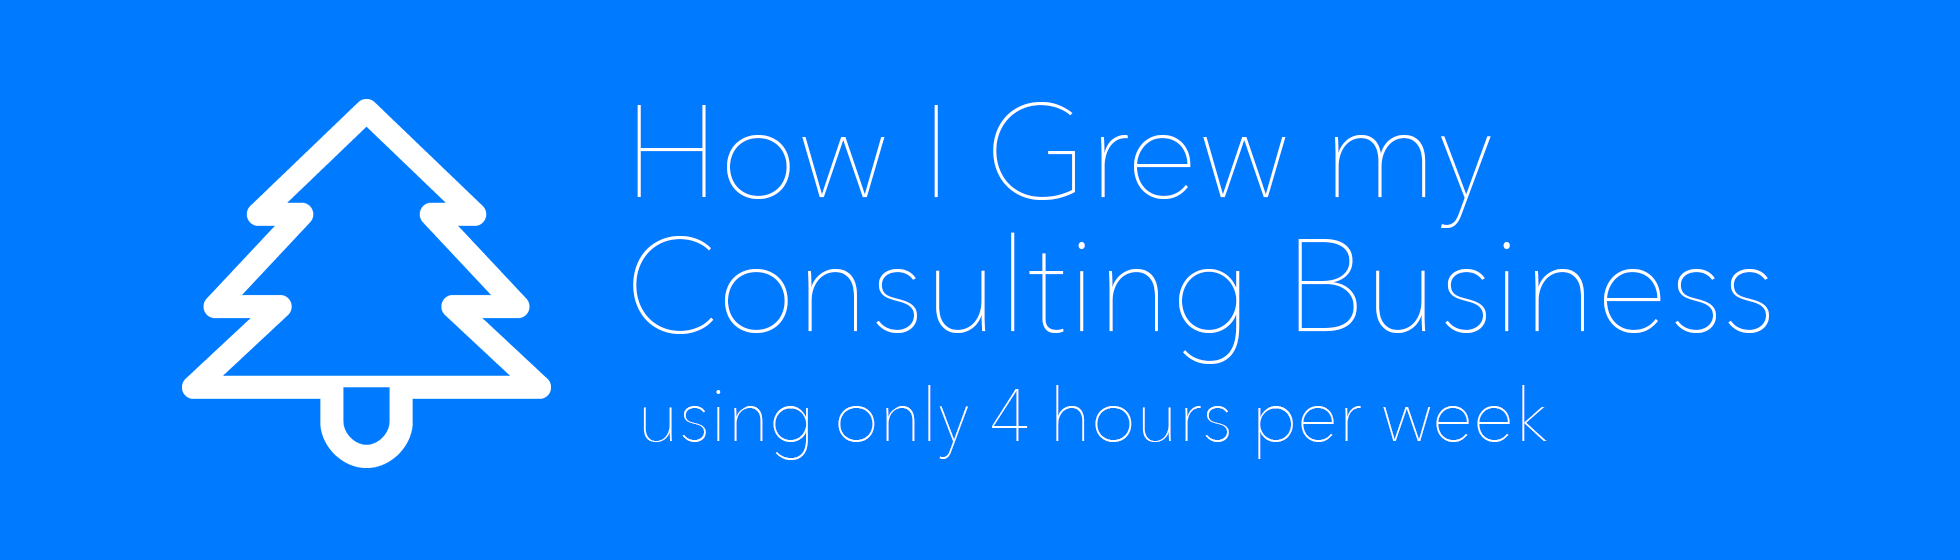
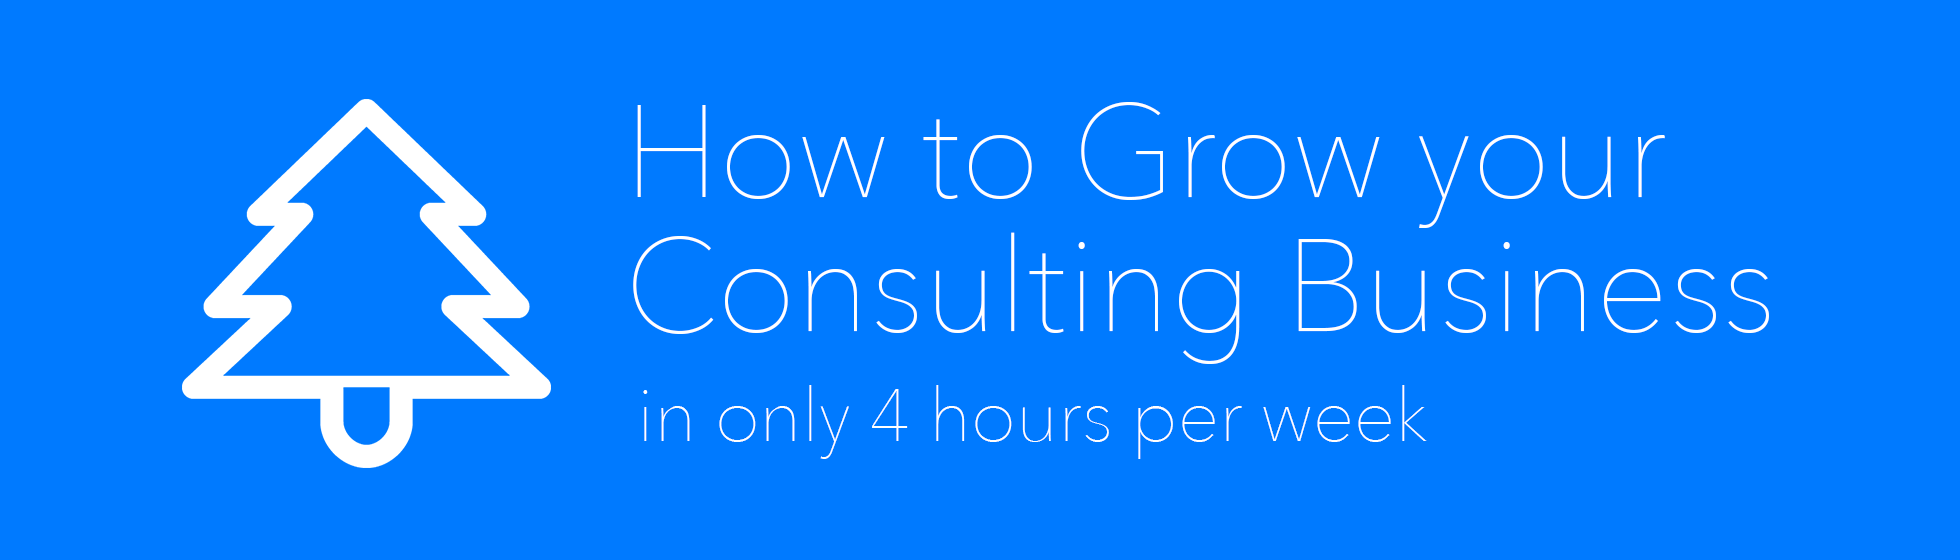
"Automated commit at 2014-01-05 20:49:57 UTC by middleman-deploy 0.1.4"

Changed region(s): [[0.4668, 0.2429, 0.8403, 0.425], [0.3112, 0.6982, 0.7781, 0.8196], [0.498, 0.1821, 0.5913, 0.2125]]

diff --git a/how-i-grew-my-consulting-business-in-only-4-hours-per-week/index.html b/how-i-grew-my-consulting-business-in-only-4-hours-per-week/index.html
@@ -1,5 +1,7 @@
-<!DOCTYPE html><html><head><meta charset="utf-8" /><meta content="IE=edge" http-equiv="X-UA-Compatible" /><title>How I Grew my Consulting Business using only 4 Hours per Week</title><meta content="width=device-width, initial-scale=1" name="viewport" /><meta content="Level up your development and consulting skills | Chris Ball" name="og:site_name" /><meta content="blog" name="og:type" /><meta content="I started echobind as a side business when I had a full time job. While this was a great way to ease-in to consulting, it required me to put in long hours every day. I quickly realized that doing so was not going to be sustainable. I needed to be able..." name="description" /><meta content="http://cball.me/images/grew-consulting-business.png" name="og:image" /><meta content="How I Grew my Consulting Business using only 4 Hours per Week" name="og:title" /><meta content="http://cball.me/how-i-grew-my-consulting-business-using-only-4-hours-per-week/" name="og:url" /><!--[if lt IE 9]><script src="//oss.maxcdn.com/libs/html5shiv/3.7.0/html5shiv.js"></script><script src="//oss.maxcdn.com/libs/respond.js/1.3.0/respond.min.js"></script><![endif]--><link href="//cloud.typography.com/6222872/746702/css/fonts.css" media="all" rel="stylesheet" type="text/css" /><link href="/stylesheets/application.css" media="all" rel="stylesheet" type="text/css" /></head><body class="how-i-grew-my-consulting-business-using-only-4-hours-per-week how-i-grew-my-consulting-business-using-only-4-hours-per-week_index"><header><div class="row"><div class="col-xs-12 col-md-2" id="my-picture"><a href="/"><img class="img-circle" width="100" height="100" src="https://1.gravatar.com/avatar/d3cc1542f7fb242f0e73fd70810c0ac5?r=x&s=100" /><span class="name">Chris Ball</span></a></div><div class="col-md-8 col-md-offset-0 col-sm-10 col-sm-offset-1"><ul class="nav nav-pills nav-justified"><li><a href="/">Home</a></li><li><a href="/about">About</a></li><li><a href="/newsletter">Newsletter</a></li><li><a href="/topics/development/">Development</a></li><li><a href="/topics/consulting/">Consulting</a></li><li><a href="/contact">Contact</a></li></ul></div><div class="col-md-2"></div></div></header><div class="container"><div class="row"><div class="col-md-10 col-md-offset-1" id="main"><article><div class="post-header"><div class="inner"><a href="/how-i-grew-my-consulting-business-using-only-4-hours-per-week/"><img class="img-responsive" src="/images/grew-consulting-business.png" /></a><div class="date"><div class="month">Jan</div><div class="day"> 5</div><div class="year">2014</div></div></div></div><div class="post-body"><h2 class="title"><a href="/how-i-grew-my-consulting-business-using-only-4-hours-per-week/">How I Grew my Consulting Business using only 4 Hours per Week</a></h2><div class="date subtitle">January  5, 2014</div><hr />
-<p>I started <a href="http://echobind.com">echobind</a> as a side business when I had a full time job. While this was a great way to ease-in to consulting, it required me to put in long hours every day. I quickly realized that doing so was not going to be sustainable. I needed to be able to take in a varying amount of work (more than I could do by myself), while still maintaining a high degree of quality. How did I do that? <strong>By using subcontractors</strong>.</p>
+<!DOCTYPE html><html><head><meta charset="utf-8" /><meta content="IE=edge" http-equiv="X-UA-Compatible" /><title>How to Grow your Consulting Business in only 4 Hours per Week</title><meta content="width=device-width, initial-scale=1" name="viewport" /><meta content="Level up your development and consulting skills | Chris Ball" name="og:site_name" /><meta content="blog" name="og:type" /><meta content="If you're like me, you started (or plan to start) your consulting as a side business while keeping a full-time job. This is a great way to ease in to consulting, but requires putting in long hours every day to grow your business. And doing this over..." name="description" /><meta content="http://cball.me/images/grew-consulting-business.png" name="og:image" /><meta content="How to Grow your Consulting Business in only 4 Hours per Week" name="og:title" /><meta content="http://cball.me/how-i-grew-my-consulting-business-in-only-4-hours-per-week/" name="og:url" /><!--[if lt IE 9]><script src="//oss.maxcdn.com/libs/html5shiv/3.7.0/html5shiv.js"></script><script src="//oss.maxcdn.com/libs/respond.js/1.3.0/respond.min.js"></script><![endif]--><link href="//cloud.typography.com/6222872/746702/css/fonts.css" media="all" rel="stylesheet" type="text/css" /><link href="/stylesheets/application.css" media="all" rel="stylesheet" type="text/css" /></head><body class="how-i-grew-my-consulting-business-in-only-4-hours-per-week how-i-grew-my-consulting-business-in-only-4-hours-per-week_index"><header><div class="row"><div class="col-xs-12 col-md-2" id="my-picture"><a href="/"><img class="img-circle" width="100" height="100" src="https://1.gravatar.com/avatar/d3cc1542f7fb242f0e73fd70810c0ac5?r=x&s=100" /><span class="name">Chris Ball</span></a></div><div class="col-md-8 col-md-offset-0 col-sm-10 col-sm-offset-1"><ul class="nav nav-pills nav-justified"><li><a href="/">Home</a></li><li><a href="/about">About</a></li><li><a href="/newsletter">Newsletter</a></li><li><a href="/topics/development/">Development</a></li><li><a href="/topics/consulting/">Consulting</a></li><li><a href="/contact">Contact</a></li></ul></div><div class="col-md-2"></div></div></header><div class="container"><div class="row"><div class="col-md-10 col-md-offset-1" id="main"><article><div class="post-header"><div class="inner"><a href="/how-i-grew-my-consulting-business-in-only-4-hours-per-week/"><img class="img-responsive" src="/images/grew-consulting-business.png" /></a><div class="date"><div class="month">Jan</div><div class="day"> 5</div><div class="year">2014</div></div></div></div><div class="post-body"><h2 class="title"><a href="/how-i-grew-my-consulting-business-in-only-4-hours-per-week/">How to Grow your Consulting Business in only 4 Hours per Week</a></h2><div class="date subtitle">January  5, 2014</div><hr />
+<p>If you're like me, you started (or plan to start) your consulting as a side business while keeping a full-time job. This is a great way to ease in to consulting, but requires putting in long hours every day to grow your business. And doing this over an extended period of time will almost certainly lead to burnout.</p>
+
+<p>How then, can you take on additional work while maintaining a high degree of quality and avoiding burnout? <strong>By effectively using subcontractors</strong>.</p>
 
 <h4 id="find-the-right-talent">Find the right talent</h4>
 <p>Just like hiring a full-time employee, you have to find the right people in order to have any chance of being successful. I did this two ways:</p>
@@ -42,7 +44,7 @@
 </blockquote>
 
 <h4 id="use-a-good-invoicing-tool">Use a good invoicing tool</h4>
-<p>I use <a href="https://echobind.freshbooks.com/refer/www">Freshbooks</a> since it has a great subcontractor feature. They can invoice me whenever they'd like at whatever rate we've agreed to, and it all flows through to my invoices to clients at the rate that I set.</p>
+<p>I recommend <a href="https://echobind.freshbooks.com/refer/www">Freshbooks</a> since it has a great subcontractor feature. Subcontractors can invoice me whenever they'd like at whatever rate we've agreed to, and it all flows through to my invoices to clients at the rate that I set.</p>
 
 <h4 id="do-it-all-in-4-hours-per-week">Do it all in 4 hours per week</h4>
 <p>Once you have this system set up, here's how it allows you to grow with limited time invested:</p>
@@ -61,7 +63,7 @@
   <li>Development work is done nights and weekends. I've never had this be an issue with any of my clients, but it's something to note. As long as your accessible to them via email and phone during the day you should not run into any problems.</li>
 </ol>
 
-<p>Subcontractors are one of the many ways that allowed me to make the jump from part-time to full-time consulting. By slowly taking on client work and using subcontractors to fill in the gaps, you'll soon have enough of a financial runway and a full-enough project pipeline that you'll be able to strike out on your own. I'll explain each of these things in detail in future posts. To growth!</p>
+<p>Subcontractors are one of the many ways that allowed me to make the jump from part-time to running <a href="http://echobind.com">echobind</a> full-time. By slowly taking on client work and using subcontractors to fill in the gaps, you'll have a financial runway and a project pipeline that you'll be able to strike out on your own. I'll explain each of these things in detail in future posts. Here's to growth!</p>
 <ul class="nav tags nav-pills"><li><a href="/topics/consulting/">/<span class="name">consulting</span>/</a></li></ul><div class="row"><div class="col-md-8 col-md-offset-2" id="upsell"><h3>Learned something new?</h3><p>Get my best development and consulting advice every week, right in your inbox.</p><a class="btn btn-warning" href="/newsletter/">Join for free</a></div></div><div id="article-nav"><div class="pull-left"><a href="/just-build-it-a-two-week-challenge/">&laquo; Just Build It</a></div><div class="pull-right"></div></div></div><div id="comments">
   <div id="disqus_thread"></div>
   <script type="text/javascript">

diff --git a/index.html b/index.html
@@ -1,4 +1,4 @@
-<!DOCTYPE html><html><head><meta charset="utf-8" /><meta content="IE=edge" http-equiv="X-UA-Compatible" /><title>Level up your development and consulting skills | Chris Ball</title><meta content="width=device-width, initial-scale=1" name="viewport" /><meta content="Level up your development and consulting skills | Chris Ball" name="og:site_name" /><meta content="blog" name="og:type" /><meta name="description" content="Level up your development and consulting skills every week."><!--[if lt IE 9]><script src="//oss.maxcdn.com/libs/html5shiv/3.7.0/html5shiv.js"></script><script src="//oss.maxcdn.com/libs/respond.js/1.3.0/respond.min.js"></script><![endif]--><link href="//cloud.typography.com/6222872/746702/css/fonts.css" media="all" rel="stylesheet" type="text/css" /><link href="/stylesheets/application.css" media="all" rel="stylesheet" type="text/css" /></head><body class="index"><header><div class="row"><div class="col-xs-12 col-md-2" id="my-picture"><a href="/"><img class="img-circle" width="100" height="100" src="https://1.gravatar.com/avatar/d3cc1542f7fb242f0e73fd70810c0ac5?r=x&s=100" /><span class="name">Chris Ball</span></a></div><div class="col-md-8 col-md-offset-0 col-sm-10 col-sm-offset-1"><ul class="nav nav-pills nav-justified"><li><a href="/">Home</a></li><li><a href="/about">About</a></li><li><a href="/newsletter">Newsletter</a></li><li><a href="/topics/development/">Development</a></li><li><a href="/topics/consulting/">Consulting</a></li><li><a href="/contact">Contact</a></li></ul></div><div class="col-md-2"></div></div></header><div class="container"><div class="row"><div class="col-md-10 col-md-offset-1" id="main"><article><div class="post-header"><div class="inner"><a href="/how-i-grew-my-consulting-business-using-only-4-hours-per-week/"><img class="img-responsive" src="/images/grew-consulting-business.png" /></a><div class="date"><div class="month">Jan</div><div class="day"> 5</div><div class="year">2014</div></div></div></div><div class="post-body"><h2 class="title"><a href="/how-i-grew-my-consulting-business-using-only-4-hours-per-week/">How I Grew my Consulting Business using only 4 Hours per Week</a></h2><div class="date subtitle">January  5, 2014</div><hr><p>I started <a href="http://echobind.com">echobind</a> as a side business when I had a full time job. While this was a great way to ease-in to consulting, it required me to put in long hours every day. I quickly realized that doing so was not going to be sustainable. I needed to be able...</p><a href="/how-i-grew-my-consulting-business-using-only-4-hours-per-week/">Continue Reading</a></div></article><hr /><article><div class="post-header"><div class="inner"><a href="/just-build-it-a-two-week-challenge/"><img class="img-responsive" src="/images/just_build_it.png" /></a><div class="date"><div class="month">Dec</div><div class="day">28</div><div class="year">2013</div></div></div></div><div class="post-body"><h2 class="title"><a href="/just-build-it-a-two-week-challenge/">Just Build It</a></h2><div class="date subtitle">December 28, 2013</div><hr />
+<!DOCTYPE html><html><head><meta charset="utf-8" /><meta content="IE=edge" http-equiv="X-UA-Compatible" /><title>Level up your development and consulting skills | Chris Ball</title><meta content="width=device-width, initial-scale=1" name="viewport" /><meta content="Level up your development and consulting skills | Chris Ball" name="og:site_name" /><meta content="blog" name="og:type" /><meta name="description" content="Level up your development and consulting skills every week."><!--[if lt IE 9]><script src="//oss.maxcdn.com/libs/html5shiv/3.7.0/html5shiv.js"></script><script src="//oss.maxcdn.com/libs/respond.js/1.3.0/respond.min.js"></script><![endif]--><link href="//cloud.typography.com/6222872/746702/css/fonts.css" media="all" rel="stylesheet" type="text/css" /><link href="/stylesheets/application.css" media="all" rel="stylesheet" type="text/css" /></head><body class="index"><header><div class="row"><div class="col-xs-12 col-md-2" id="my-picture"><a href="/"><img class="img-circle" width="100" height="100" src="https://1.gravatar.com/avatar/d3cc1542f7fb242f0e73fd70810c0ac5?r=x&s=100" /><span class="name">Chris Ball</span></a></div><div class="col-md-8 col-md-offset-0 col-sm-10 col-sm-offset-1"><ul class="nav nav-pills nav-justified"><li><a href="/">Home</a></li><li><a href="/about">About</a></li><li><a href="/newsletter">Newsletter</a></li><li><a href="/topics/development/">Development</a></li><li><a href="/topics/consulting/">Consulting</a></li><li><a href="/contact">Contact</a></li></ul></div><div class="col-md-2"></div></div></header><div class="container"><div class="row"><div class="col-md-10 col-md-offset-1" id="main"><article><div class="post-header"><div class="inner"><a href="/how-i-grew-my-consulting-business-in-only-4-hours-per-week/"><img class="img-responsive" src="/images/grew-consulting-business.png" /></a><div class="date"><div class="month">Jan</div><div class="day"> 5</div><div class="year">2014</div></div></div></div><div class="post-body"><h2 class="title"><a href="/how-i-grew-my-consulting-business-in-only-4-hours-per-week/">How to Grow your Consulting Business in only 4 Hours per Week</a></h2><div class="date subtitle">January  5, 2014</div><hr><p>If you're like me, you started (or plan to start) your consulting as a side business while keeping a full-time job. This is a great way to ease in to consulting, but requires putting in long hours every day to grow your business. And doing this over...</p><a href="/how-i-grew-my-consulting-business-in-only-4-hours-per-week/">Continue Reading</a></div></article><hr /><article><div class="post-header"><div class="inner"><a href="/just-build-it-a-two-week-challenge/"><img class="img-responsive" src="/images/just_build_it.png" /></a><div class="date"><div class="month">Dec</div><div class="day">28</div><div class="year">2013</div></div></div></div><div class="post-body"><h2 class="title"><a href="/just-build-it-a-two-week-challenge/">Just Build It</a></h2><div class="date subtitle">December 28, 2013</div><hr />
 <p>A foolproof way to level up your development in a short amount of time is to just build something. Pick something away from the silo of your day job or client work (something different than what you work on daily will be more exciting!), give yourself a deadline, and just build it.</p>
 
 <p><a href="/just-build-it-a-two-week-challenge/">Continue Reading</a></div></article><hr /><article><div class="post-header"><div class="inner"><a href="/walk-like-a-designer/"><img class="img-responsive" src="/images/walk_like_a_designer.png" /></a><div class="date"><div class="month">Dec</div><div class="day">18</div><div class="year">2013</div></div></div></div><div class="post-body"><h2 class="title"><a href="/walk-like-a-designer/">Walk Like a Designer</a></h2><div class="date subtitle">December 18, 2013</div><hr><p>You're a developer, not a designer. I get that. But to say you just "can't do front-end" is just plain wrong. Especially considering the tools that we have available to us today. I think you'll find if you learn to walk like a designer (and by that...</p><a href="/walk-like-a-designer/">Continue Reading</a></div></article><hr /><article><div class="post-header"><div class="inner"><a href="/communication-is-key/"><img class="img-responsive" src="/images/communication_is_key.png" /></a><div class="date"><div class="month">Dec</div><div class="day">17</div><div class="year">2013</div></div></div></div><div class="post-body"><h2 class="title"><a href="/communication-is-key/">Communication is Key</a></h2><div class="date subtitle">December 17, 2013</div><hr><p>Communication is a strange beast. It can destroy relationships,  and it can win you clients. It can make you sound knowledgeable, or make it seem like you have no idea what you're doing.</p>

diff --git a/topics/consulting/index.html b/topics/consulting/index.html
@@ -1,4 +1,4 @@
-<!DOCTYPE html><html><head><meta charset="utf-8" /><meta content="IE=edge" http-equiv="X-UA-Compatible" /><title>Level up your development and consulting skills | Chris Ball</title><meta content="width=device-width, initial-scale=1" name="viewport" /><meta content="Level up your development and consulting skills | Chris Ball" name="og:site_name" /><meta content="blog" name="og:type" /><meta name="description" content="Level up your development and consulting skills every week."><!--[if lt IE 9]><script src="//oss.maxcdn.com/libs/html5shiv/3.7.0/html5shiv.js"></script><script src="//oss.maxcdn.com/libs/respond.js/1.3.0/respond.min.js"></script><![endif]--><link href="//cloud.typography.com/6222872/746702/css/fonts.css" media="all" rel="stylesheet" type="text/css" /><link href="/stylesheets/application.css" media="all" rel="stylesheet" type="text/css" /></head><body class="topics topics_consulting topics_consulting_index"><header><div class="row"><div class="col-xs-12 col-md-2" id="my-picture"><a href="/"><img class="img-circle" width="100" height="100" src="https://1.gravatar.com/avatar/d3cc1542f7fb242f0e73fd70810c0ac5?r=x&s=100" /><span class="name">Chris Ball</span></a></div><div class="col-md-8 col-md-offset-0 col-sm-10 col-sm-offset-1"><ul class="nav nav-pills nav-justified"><li><a href="/">Home</a></li><li><a href="/about">About</a></li><li><a href="/newsletter">Newsletter</a></li><li><a href="/topics/development/">Development</a></li><li><a href="/topics/consulting/">Consulting</a></li><li><a href="/contact">Contact</a></li></ul></div><div class="col-md-2"></div></div></header><div class="container"><div class="row"><div class="col-md-10 col-md-offset-1" id="main"><article><div class="post-header"><div class="inner"><a href="/how-i-grew-my-consulting-business-using-only-4-hours-per-week/"><img class="img-responsive" src="/images/grew-consulting-business.png" /></a><div class="date"><div class="month">Jan</div><div class="day"> 5</div><div class="year">2014</div></div></div></div><div class="post-body"><h2 class="title"><a href="/how-i-grew-my-consulting-business-using-only-4-hours-per-week/">How I Grew my Consulting Business using only 4 Hours per Week</a></h2><div class="date subtitle">January  5, 2014</div><hr><p>I started <a href="http://echobind.com">echobind</a> as a side business when I had a full time job. While this was a great way to ease-in to consulting, it required me to put in long hours every day. I quickly realized that doing so was not going to be sustainable. I needed to be able...</p><a href="/how-i-grew-my-consulting-business-using-only-4-hours-per-week/">Continue Reading</a></div></article><hr /><article><div class="post-header"><div class="inner"><a href="/communication-is-key/"><img class="img-responsive" src="/images/communication_is_key.png" /></a><div class="date"><div class="month">Dec</div><div class="day">17</div><div class="year">2013</div></div></div></div><div class="post-body"><h2 class="title"><a href="/communication-is-key/">Communication is Key</a></h2><div class="date subtitle">December 17, 2013</div><hr><p>Communication is a strange beast. It can destroy relationships,  and it can win you clients. It can make you sound knowledgeable, or make it seem like you have no idea what you're doing.</p>
+<!DOCTYPE html><html><head><meta charset="utf-8" /><meta content="IE=edge" http-equiv="X-UA-Compatible" /><title>Level up your development and consulting skills | Chris Ball</title><meta content="width=device-width, initial-scale=1" name="viewport" /><meta content="Level up your development and consulting skills | Chris Ball" name="og:site_name" /><meta content="blog" name="og:type" /><meta name="description" content="Level up your development and consulting skills every week."><!--[if lt IE 9]><script src="//oss.maxcdn.com/libs/html5shiv/3.7.0/html5shiv.js"></script><script src="//oss.maxcdn.com/libs/respond.js/1.3.0/respond.min.js"></script><![endif]--><link href="//cloud.typography.com/6222872/746702/css/fonts.css" media="all" rel="stylesheet" type="text/css" /><link href="/stylesheets/application.css" media="all" rel="stylesheet" type="text/css" /></head><body class="topics topics_consulting topics_consulting_index"><header><div class="row"><div class="col-xs-12 col-md-2" id="my-picture"><a href="/"><img class="img-circle" width="100" height="100" src="https://1.gravatar.com/avatar/d3cc1542f7fb242f0e73fd70810c0ac5?r=x&s=100" /><span class="name">Chris Ball</span></a></div><div class="col-md-8 col-md-offset-0 col-sm-10 col-sm-offset-1"><ul class="nav nav-pills nav-justified"><li><a href="/">Home</a></li><li><a href="/about">About</a></li><li><a href="/newsletter">Newsletter</a></li><li><a href="/topics/development/">Development</a></li><li><a href="/topics/consulting/">Consulting</a></li><li><a href="/contact">Contact</a></li></ul></div><div class="col-md-2"></div></div></header><div class="container"><div class="row"><div class="col-md-10 col-md-offset-1" id="main"><article><div class="post-header"><div class="inner"><a href="/how-i-grew-my-consulting-business-in-only-4-hours-per-week/"><img class="img-responsive" src="/images/grew-consulting-business.png" /></a><div class="date"><div class="month">Jan</div><div class="day"> 5</div><div class="year">2014</div></div></div></div><div class="post-body"><h2 class="title"><a href="/how-i-grew-my-consulting-business-in-only-4-hours-per-week/">How to Grow your Consulting Business in only 4 Hours per Week</a></h2><div class="date subtitle">January  5, 2014</div><hr><p>If you're like me, you started (or plan to start) your consulting as a side business while keeping a full-time job. This is a great way to ease in to consulting, but requires putting in long hours every day to grow your business. And doing this over...</p><a href="/how-i-grew-my-consulting-business-in-only-4-hours-per-week/">Continue Reading</a></div></article><hr /><article><div class="post-header"><div class="inner"><a href="/communication-is-key/"><img class="img-responsive" src="/images/communication_is_key.png" /></a><div class="date"><div class="month">Dec</div><div class="day">17</div><div class="year">2013</div></div></div></div><div class="post-body"><h2 class="title"><a href="/communication-is-key/">Communication is Key</a></h2><div class="date subtitle">December 17, 2013</div><hr><p>Communication is a strange beast. It can destroy relationships,  and it can win you clients. It can make you sound knowledgeable, or make it seem like you have no idea what you're doing.</p>
 
 <p>Here are a few small tips on communication from a consulting...</p><a href="/communication-is-key/">Continue Reading</a></div></article><hr /></div></div><div class="row"><div class="col-md-12"><div class="echobind center"><a target="_blank" href="http://echobind.com"><img src="/images/echobind.png" /></a><p>Founder / Principal</p></div></div></div></div><footer><ul class="list-unstyled"><li><a href="/newsletter">Free updates</a></li><li class="separator">&mdash;</li><li><a href="/contact">Contact</a></li><li class="separator">&mdash;</li><li><a href="/about">Built by Chris</a></li></ul></footer><script src="//cdnjs.cloudflare.com/ajax/libs/jquery/1.10.2/jquery.min.js"></script><script src="/javascripts/application.js" type="text/javascript"></script><script type="text/javascript">// gauges
 var _gauges = _gauges || [];

diff --git a/just-build-it-a-two-week-challenge/index.html b/just-build-it-a-two-week-challenge/index.html
@@ -34,7 +34,7 @@
 <p>Remember, we are going to try our best to finish our "Just build it" app in 2 weeks time, but don't get frustrated if you can't quite complete it. As long as you put some real effort behind it, you'll see the benefits. Worst case, you'll have something interesting to discuss with other developers at your next meetup (you are attending meetups right?).</p>
 
 <p>If you take part in the "Just build It" challenge, let me know what you're working on!</p>
-<ul class="nav tags nav-pills"><li><a href="/topics/development/">/<span class="name">development</span>/</a></li></ul><div class="row"><div class="col-md-8 col-md-offset-2" id="upsell"><h3>Learned something new?</h3><p>Get my best development and consulting advice every week, right in your inbox.</p><a class="btn btn-warning" href="/newsletter/">Join for free</a></div></div><div id="article-nav"><div class="pull-left"><a href="/walk-like-a-designer/">&laquo; Walk Like a Designer</a></div><div class="pull-right"><a href="/how-i-grew-my-consulting-business-using-only-4-hours-per-week/">How I Grew my Consulting Bu... &raquo;</a></div></div></div><div id="comments">
+<ul class="nav tags nav-pills"><li><a href="/topics/development/">/<span class="name">development</span>/</a></li></ul><div class="row"><div class="col-md-8 col-md-offset-2" id="upsell"><h3>Learned something new?</h3><p>Get my best development and consulting advice every week, right in your inbox.</p><a class="btn btn-warning" href="/newsletter/">Join for free</a></div></div><div id="article-nav"><div class="pull-left"><a href="/walk-like-a-designer/">&laquo; Walk Like a Designer</a></div><div class="pull-right"><a href="/how-i-grew-my-consulting-business-in-only-4-hours-per-week/">How to Grow your Consulting... &raquo;</a></div></div></div><div id="comments">
   <div id="disqus_thread"></div>
   <script type="text/javascript">
     /* * * CONFIGURATION VARIABLES: EDIT BEFORE PASTING INTO YOUR WEBPAGE * * */

diff --git a/2014/01/05/index.html b/2014/01/05/index.html
@@ -7,7 +7,7 @@
 
 <ul>
   
-    <li><a href="/how-i-grew-my-consulting-business-using-only-4-hours-per-week/">How I Grew my Consulting Business using only 4 Hours per Week</a> <span>Jan  5</span></li>
+    <li><a href="/how-i-grew-my-consulting-business-in-only-4-hours-per-week/">How to Grow your Consulting Business in only 4 Hours per Week</a> <span>Jan  5</span></li>
   
 </ul>
 

diff --git a/2014/01/index.html b/2014/01/index.html
@@ -7,7 +7,7 @@
 
 <ul>
   
-    <li><a href="/how-i-grew-my-consulting-business-using-only-4-hours-per-week/">How I Grew my Consulting Business using only 4 Hours per Week</a> <span>Jan  5</span></li>
+    <li><a href="/how-i-grew-my-consulting-business-in-only-4-hours-per-week/">How to Grow your Consulting Business in only 4 Hours per Week</a> <span>Jan  5</span></li>
   
 </ul>
 

diff --git a/2014/index.html b/2014/index.html
@@ -7,7 +7,7 @@
 
 <ul>
   
-    <li><a href="/how-i-grew-my-consulting-business-using-only-4-hours-per-week/">How I Grew my Consulting Business using only 4 Hours per Week</a> <span>Jan  5</span></li>
+    <li><a href="/how-i-grew-my-consulting-business-in-only-4-hours-per-week/">How to Grow your Consulting Business in only 4 Hours per Week</a> <span>Jan  5</span></li>
   
 </ul>
 
